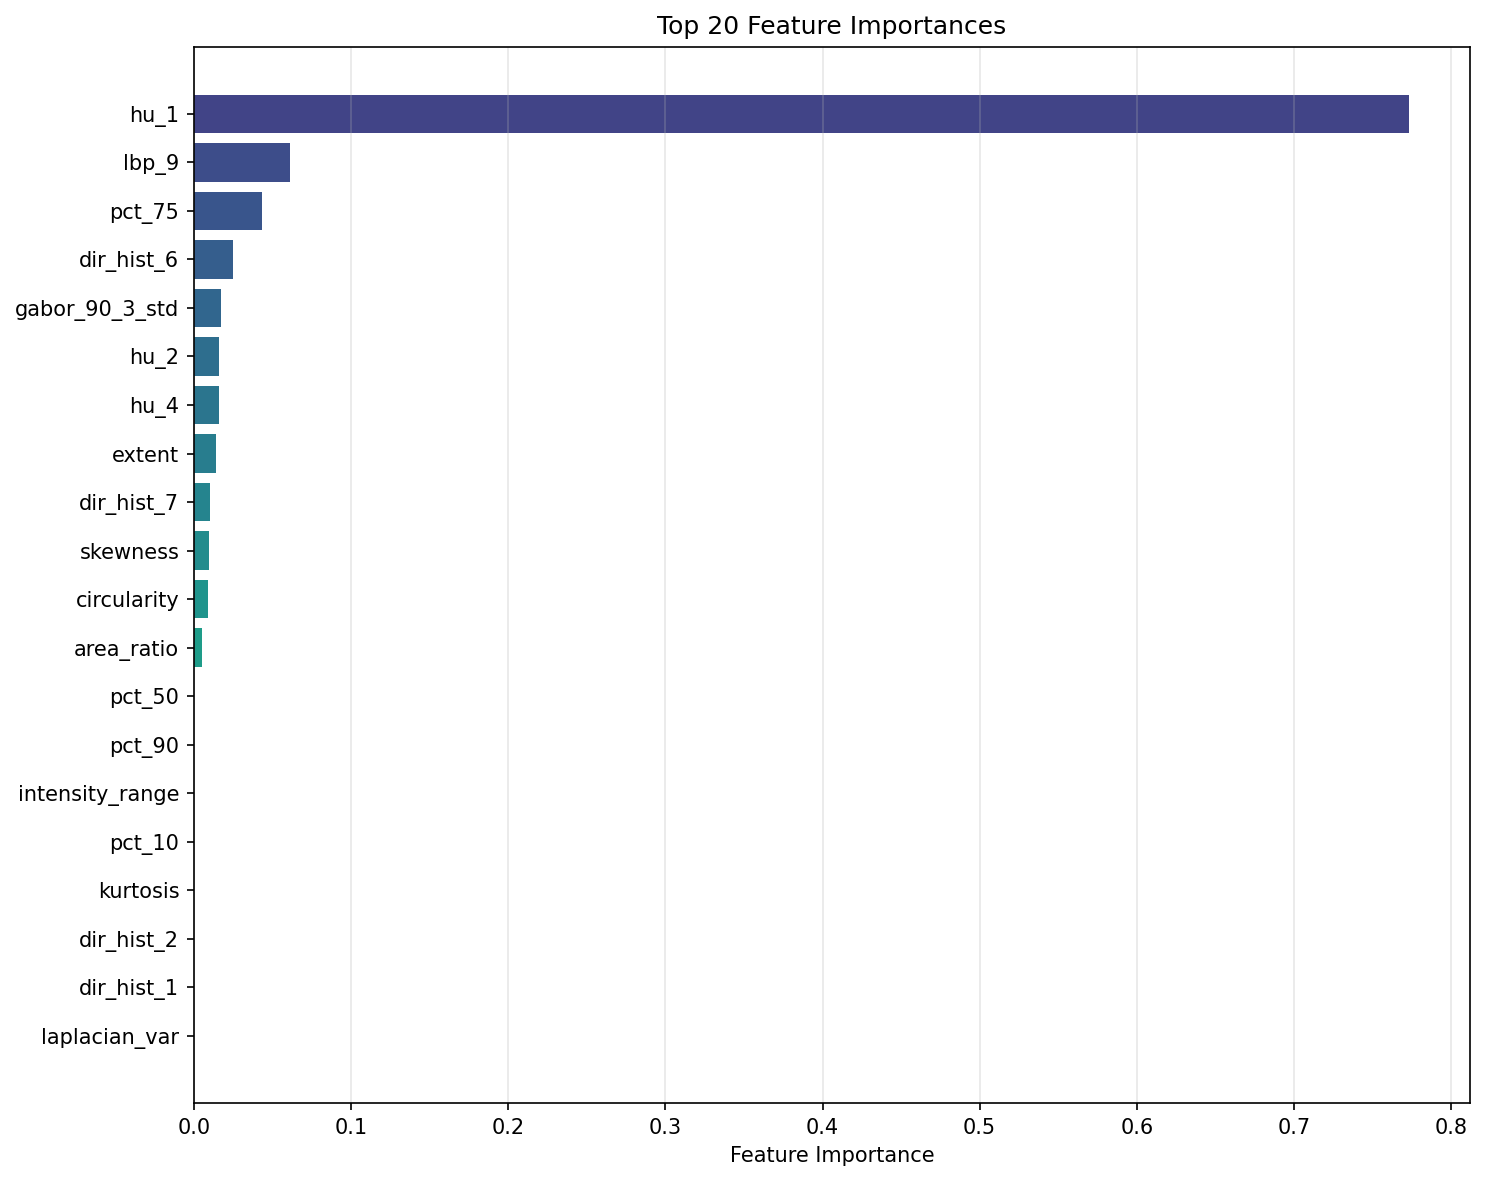
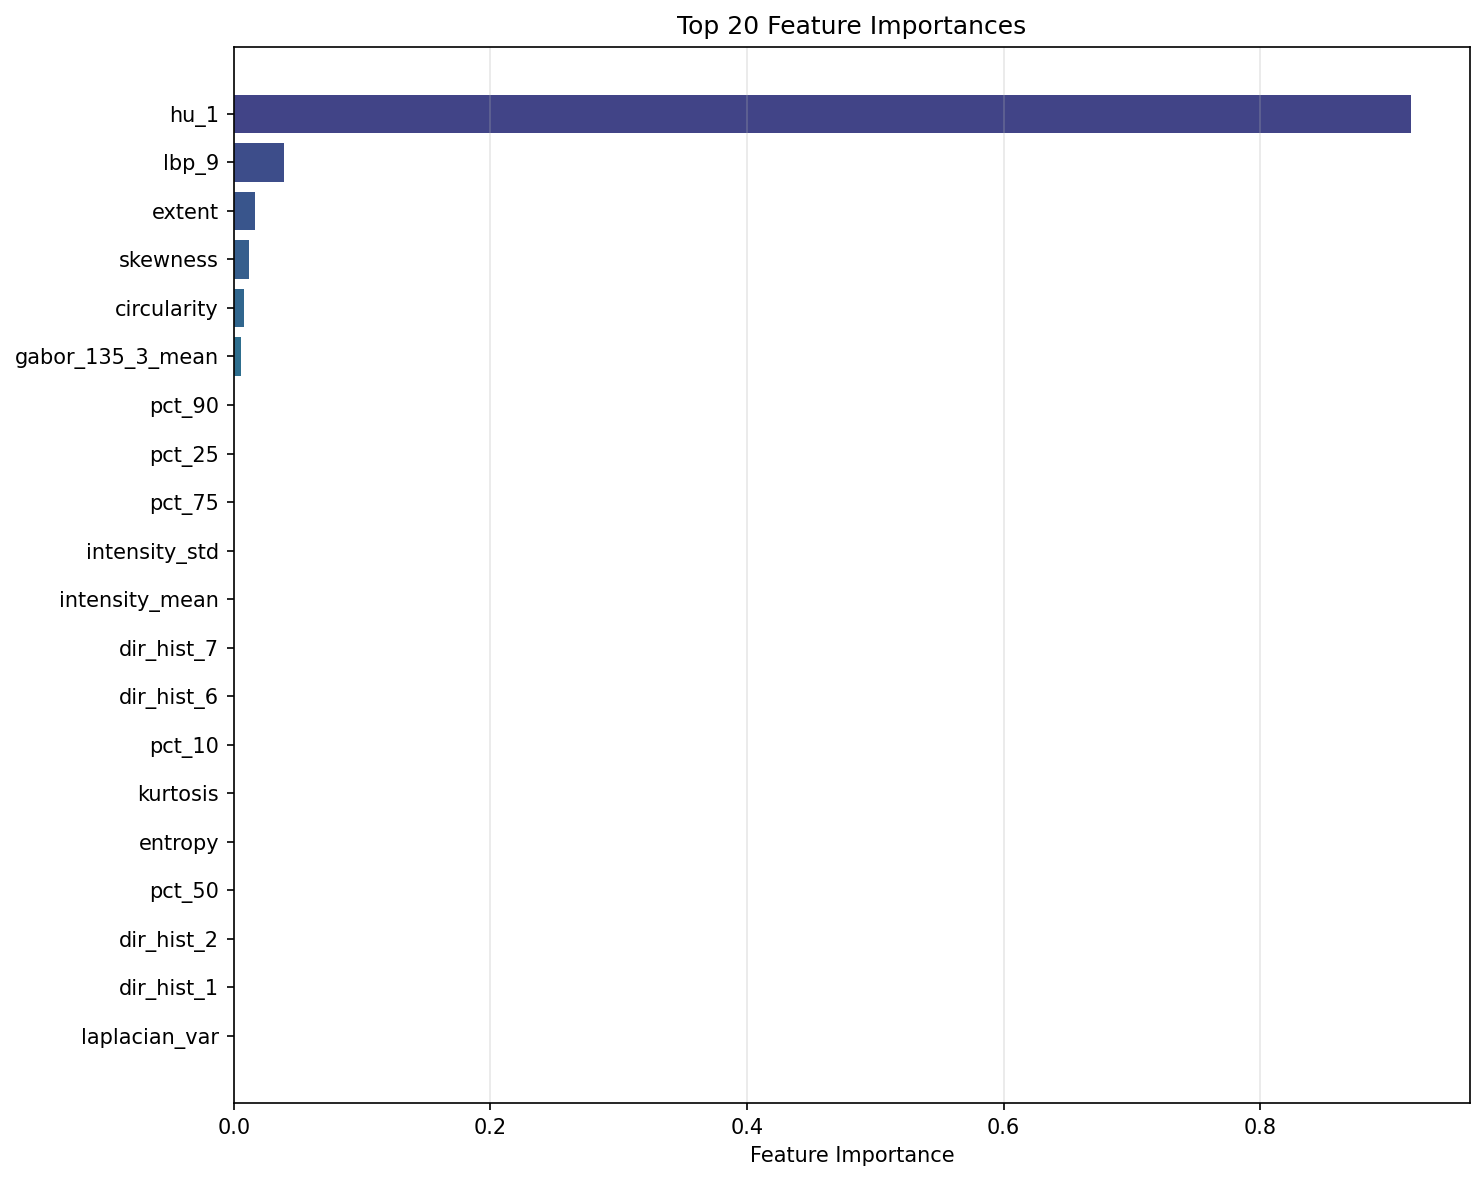
Refactor feature names to be defined in extract_features and reorganize folder structure
- Change feature name management: define feature names alongside feature extraction in extract_features function instead of using FEATURE_NAMES constant
- Add _add_features helper method to add feature names and values together using dictionary format
- Reorganize folder structure: move classifier to src/snow_crystal_classifier/, move scripts to scripts/
- Update import paths to match new structure

diff --git a/src/snow_crystal_classifier/classifier.py b/src/snow_crystal_classifier/classifier.py
@@ -31,6 +31,7 @@ class SnowCrystalClassifier:
             random_state=random_state,
             n_jobs=-1,
         )
+        self._feature_names = None  # 特徴量名をキャッシュ
 
     def fit(self, X_train, y_train):
         """
@@ -66,6 +67,46 @@ class SnowCrystalClassifier:
         """複数画像から特徴量を抽出する"""
         return np.array([self._extract_features(img) for img in images])
 
+    def get_feature_names(self):
+        """
+        特徴量名のリストを返す
+        
+        Returns:
+            特徴量名のリスト
+        """
+        if self._feature_names is None:
+            # 特徴量名がまだ生成されていない場合は、ダミー画像で生成
+            dummy_image = np.zeros((100, 100, 3), dtype=np.uint8)
+            self._extract_features(dummy_image)
+        # この時点でself._feature_namesはNoneではない
+        assert self._feature_names is not None
+        return self._feature_names.copy()
+
+    def _add_features(self, features, feature_names, feature_dict):
+        """
+        特徴量名と値を同時に追加する
+        
+        Args:
+            features: 特徴量リスト
+            feature_names: 特徴量名リスト（Noneの場合は名前を追加しない）
+            feature_dict: 特徴量名と値の辞書
+        """
+        for name, value in feature_dict.items():
+            if isinstance(value, (list, np.ndarray)):
+                features.extend(value if isinstance(value, list) else value.tolist())
+                if feature_names is not None:
+                    if isinstance(value, np.ndarray) and value.ndim == 0:
+                        # 0次元配列（スカラー）の場合
+                        feature_names.append(name)
+                    else:
+                        # 配列の場合、各要素に名前を付ける
+                        for i in range(len(value)):
+                            feature_names.append(f"{name}_{i}" if len(value) > 1 else name)
+            else:
+                features.append(value)
+                if feature_names is not None:
+                    feature_names.append(name)
+
     def _extract_features(self, image):
         """
         1枚の画像から特徴量を抽出する
@@ -80,6 +121,11 @@ class SnowCrystalClassifier:
         gray = cv2.cvtColor(image, cv2.COLOR_RGB2GRAY)
 
         features = []
+        # 特徴量名を同時に管理（初回のみ生成）
+        if self._feature_names is None:
+            feature_names = []
+        else:
+            feature_names = None  # 既に生成済みの場合は名前を追加しない
 
         # ========================================
         # 形状特徴量（実装例）
@@ -90,7 +136,18 @@ class SnowCrystalClassifier:
 
         if len(contours) == 0:
             # 輪郭が見つからない場合はゼロで埋める
-            features.extend([0, 0, 1, 0, 0, 0, 0, 0, 0, 0])
+            self._add_features(features, feature_names, {
+                "circularity": 0,
+                "area_ratio": 0,
+                "aspect_ratio": 1,
+                "extent": 0,
+                "solidity": 0,
+                "complexity": 0,
+                "hu_1": 0,
+                "hu_2": 0,
+                "hu_3": 0,
+                "hu_4": 0,
+            })
         else:
             # 最大の輪郭を取得
             largest = max(contours, key=cv2.contourArea)
@@ -121,8 +178,18 @@ class SnowCrystalClassifier:
             hu = cv2.HuMoments(moments).flatten()[:4]
             hu = -np.sign(hu) * np.log10(np.abs(hu) + 1e-10)
 
-            features.extend([circularity, area_ratio, aspect_ratio, extent, solidity, complexity])
-            features.extend(hu.tolist())
+            self._add_features(features, feature_names, {
+                "circularity": circularity,
+                "area_ratio": area_ratio,
+                "aspect_ratio": aspect_ratio,
+                "extent": extent,
+                "solidity": solidity,
+                "complexity": complexity,
+                "hu_1": hu[0],
+                "hu_2": hu[1],
+                "hu_3": hu[2],
+                "hu_4": hu[3],
+            })
 
         # ========================================
         # テクスチャ特徴量（LBP + Gabor）
@@ -139,14 +206,21 @@ class SnowCrystalClassifier:
             lbp += ((neighbor >= gray).astype(np.uint8) << i)
         # LBPヒストグラム（16ビンに正規化）
         hist, _ = np.histogram(lbp.ravel(), bins=16, range=(0, 256))
-        features.extend((hist / (hist.sum() + 1e-7)).tolist())
+        hist_normalized = (hist / (hist.sum() + 1e-7)).tolist()
+        self._add_features(features, feature_names, {
+            f"lbp_{i}": hist_normalized[i] for i in range(16)
+        })
 
         # Gaborフィルタ: 異なる方向・スケールのテクスチャを検出
+        gabor_features = {}
         for theta in [0, np.pi / 4, np.pi / 2, 3 * np.pi / 4]:
+            theta_deg = int(np.degrees(theta))
             for sigma in [3.0, 5.0]:
                 kernel = cv2.getGaborKernel((21, 21), sigma, theta, 10.0, 0.5, 0)
                 filtered = cv2.filter2D(gray, cv2.CV_64F, kernel)
-                features.extend([filtered.mean(), filtered.std()])
+                gabor_features[f"gabor_{theta_deg}_{int(sigma)}_mean"] = filtered.mean()
+                gabor_features[f"gabor_{theta_deg}_{int(sigma)}_std"] = filtered.std()
+        self._add_features(features, feature_names, gabor_features)
 
         # ========================================
         # エッジ特徴量
@@ -168,8 +242,16 @@ class SnowCrystalClassifier:
         # Laplacian: エッジの鮮明さ（分散が大きいほど鮮明）
         laplacian_var = cv2.Laplacian(gray, cv2.CV_64F).var() / 1000
 
-        features.extend([edge_density, gradient.mean(), gradient.std(), laplacian_var])
-        features.extend(dir_hist.tolist())
+        edge_features = {
+            "edge_density": edge_density,
+            "gradient_mean": gradient.mean(),
+            "gradient_std": gradient.std(),
+            "laplacian_var": laplacian_var,
+        }
+        # 方向ヒストグラムを追加
+        for i in range(8):
+            edge_features[f"dir_hist_{i}"] = dir_hist[i]
+        self._add_features(features, feature_names, edge_features)
 
         # ========================================
         # 統計的特徴量
@@ -190,10 +272,22 @@ class SnowCrystalClassifier:
         # パーセンタイル
         percentiles = np.percentile(gray.ravel(), [10, 25, 50, 75, 90]) / 255
 
-        features.extend([
-            mean / 255, std / 255, (gray.max() - gray.min()) / 255,
-            entropy / 8, skewness, kurtosis
-        ])
-        features.extend(percentiles.tolist())
+        self._add_features(features, feature_names, {
+            "intensity_mean": mean / 255,
+            "intensity_std": std / 255,
+            "intensity_range": (gray.max() - gray.min()) / 255,
+            "entropy": entropy / 8,
+            "skewness": skewness,
+            "kurtosis": kurtosis,
+            "pct_10": percentiles[0],
+            "pct_25": percentiles[1],
+            "pct_50": percentiles[2],
+            "pct_75": percentiles[3],
+            "pct_90": percentiles[4],
+        })
+
+        # 特徴量名をキャッシュ
+        if feature_names is not None:
+            self._feature_names = feature_names
 
         return np.array(features)

diff --git a/scripts/visualize_tree.py b/scripts/visualize_tree.py
@@ -14,25 +14,13 @@ from sklearn.tree import DecisionTreeClassifier, plot_tree, export_text
 from sklearn.model_selection import StratifiedKFold, cross_val_score
 from sklearn.preprocessing import StandardScaler
 
-from classifier import SnowCrystalClassifier
+import sys
+from pathlib import Path
 
+# srcディレクトリをパスに追加
+sys.path.insert(0, str(Path(__file__).parent.parent / "src"))
 
-# 特徴量名
-FEATURE_NAMES = [
-    # 形状 (10)
-    "circularity", "area_ratio", "aspect_ratio", "extent", "solidity", "complexity",
-    "hu_1", "hu_2", "hu_3", "hu_4",
-    # LBP (16)
-    *[f"lbp_{i}" for i in range(16)],
-    # Gabor (16)
-    *[f"gabor_{d}_{s}_{stat}" for d in ["0", "45", "90", "135"] for s in ["3", "5"] for stat in ["mean", "std"]],
-    # エッジ (12)
-    "edge_density", "gradient_mean", "gradient_std", "laplacian_var",
-    *[f"dir_hist_{i}" for i in range(8)],
-    # 統計 (11)
-    "intensity_mean", "intensity_std", "intensity_range", "entropy", "skewness", "kurtosis",
-    "pct_10", "pct_25", "pct_50", "pct_75", "pct_90",
-]
+from snow_crystal_classifier import SnowCrystalClassifier
 
 
 def resize_with_padding(image: np.ndarray, target_size: tuple[int, int]) -> np.ndarray:
@@ -65,16 +53,23 @@ def load_dataset(data_dir: Path, image_size: tuple[int, int]) -> tuple[np.ndarra
     return np.array(images), np.array(labels), class_names
 
 
-def extract_features(images: np.ndarray) -> np.ndarray:
-    """画像から特徴量を抽出する"""
+def extract_features(images: np.ndarray) -> tuple[np.ndarray, list[str]]:
+    """
+    画像から特徴量を抽出する
+    
+    Returns:
+        特徴量配列と特徴量名のリスト
+    """
     extractor = SnowCrystalClassifier()
-    return extractor._extract_features_batch(images)
+    features = extractor._extract_features_batch(images)
+    feature_names = extractor.get_feature_names()
+    return features, feature_names
 
 
-def visualize_tree(tree: DecisionTreeClassifier, class_names: list[str], output_path: Path, max_depth: int) -> None:
+def visualize_tree(tree: DecisionTreeClassifier, feature_names: list[str], class_names: list[str], output_path: Path, max_depth: int) -> None:
     """決定木を可視化する"""
     fig, ax = plt.subplots(figsize=(24, 16))
-    plot_tree(tree, feature_names=FEATURE_NAMES, class_names=class_names,
+    plot_tree(tree, feature_names=feature_names, class_names=class_names,
               filled=True, rounded=True, ax=ax, max_depth=max_depth, fontsize=8, proportion=True)
     ax.set_title(f"Decision Tree (depth={tree.get_depth()}, leaves={tree.get_n_leaves()})", fontsize=14)
     plt.tight_layout()
@@ -83,7 +78,7 @@ def visualize_tree(tree: DecisionTreeClassifier, class_names: list[str], output_
     print(f"  Saved: {output_path}")
 
 
-def visualize_importance(tree: DecisionTreeClassifier, output_path: Path, top_n: int = 20) -> None:
+def visualize_importance(tree: DecisionTreeClassifier, feature_names: list[str], output_path: Path, top_n: int = 20) -> None:
     """特徴量の重要度を可視化する"""
     importances = tree.feature_importances_
     indices = np.argsort(importances)[::-1][:top_n]
@@ -92,7 +87,7 @@ def visualize_importance(tree: DecisionTreeClassifier, output_path: Path, top_n:
     cmap = plt.colormaps.get_cmap("viridis")
     ax.barh(range(top_n), importances[indices][::-1], color=cmap(np.linspace(0.2, 0.8, top_n)[::-1]))
     ax.set_yticks(range(top_n))
-    ax.set_yticklabels([FEATURE_NAMES[i] for i in indices[::-1]])
+    ax.set_yticklabels([feature_names[i] for i in indices[::-1]])
     ax.set_xlabel("Feature Importance")
     ax.set_title(f"Top {top_n} Feature Importances")
     ax.grid(axis="x", alpha=0.3)
@@ -117,7 +112,7 @@ def main(data_dir: Path, output_dir: Path, max_depth: int, n_folds: int, image_s
 
     # 特徴量抽出
     print("Extracting features...")
-    features = extract_features(X)
+    features, feature_names = extract_features(X)
     print(f"  Features: {features.shape[1]}")
 
     # 標準化
@@ -138,13 +133,13 @@ def main(data_dir: Path, output_dir: Path, max_depth: int, n_folds: int, image_s
 
     # 可視化
     print("\nVisualizing...")
-    visualize_tree(tree, class_names, output_dir / "decision_tree.png", max_depth)
-    visualize_importance(tree, output_dir / "feature_importance.png")
+    visualize_tree(tree, feature_names, class_names, output_dir / "decision_tree.png", max_depth)
+    visualize_importance(tree, feature_names, output_dir / "feature_importance.png")
 
     # ルールをテキスト出力
     rules_path = output_dir / "decision_tree_rules.txt"
     with open(rules_path, "w") as f:
-        f.write(export_text(tree, feature_names=FEATURE_NAMES, class_names=class_names))
+        f.write(export_text(tree, feature_names=feature_names, class_names=class_names))
     print(f"  Saved: {rules_path}")
 
     print("\nDone!")
@@ -154,7 +149,7 @@ if __name__ == "__main__":
     parser = argparse.ArgumentParser(description="決定木の訓練と可視化")
     parser.add_argument("--data-dir", type=str, default="dataset")
     parser.add_argument("--output-dir", type=str, default="output")
-    parser.add_argument("--max-depth", type=int, default=5)
+    parser.add_argument("--max-depth", type=int, default=3)
     parser.add_argument("--n-folds", type=int, default=5)
     parser.add_argument("--image-size", type=int, default=128)
     parser.add_argument("--seed", type=int, default=42)

diff --git a/scripts/main.py b/scripts/main.py
@@ -16,7 +16,13 @@ import seaborn as sns
 from sklearn.model_selection import StratifiedKFold
 from sklearn.metrics import accuracy_score, precision_score, recall_score, f1_score, confusion_matrix
 
-from classifier import SnowCrystalClassifier
+import sys
+from pathlib import Path
+
+# srcディレクトリをパスに追加
+sys.path.insert(0, str(Path(__file__).parent.parent / "src"))
+
+from snow_crystal_classifier import SnowCrystalClassifier
 
 
 

diff --git a/src/snow_crystal_classifier/__init__.py b/src/snow_crystal_classifier/__init__.py
@@ -1,0 +1,6 @@
+"""雪晶分類器パッケージ"""
+
+from .classifier import SnowCrystalClassifier
+
+__all__ = ["SnowCrystalClassifier"]
+
